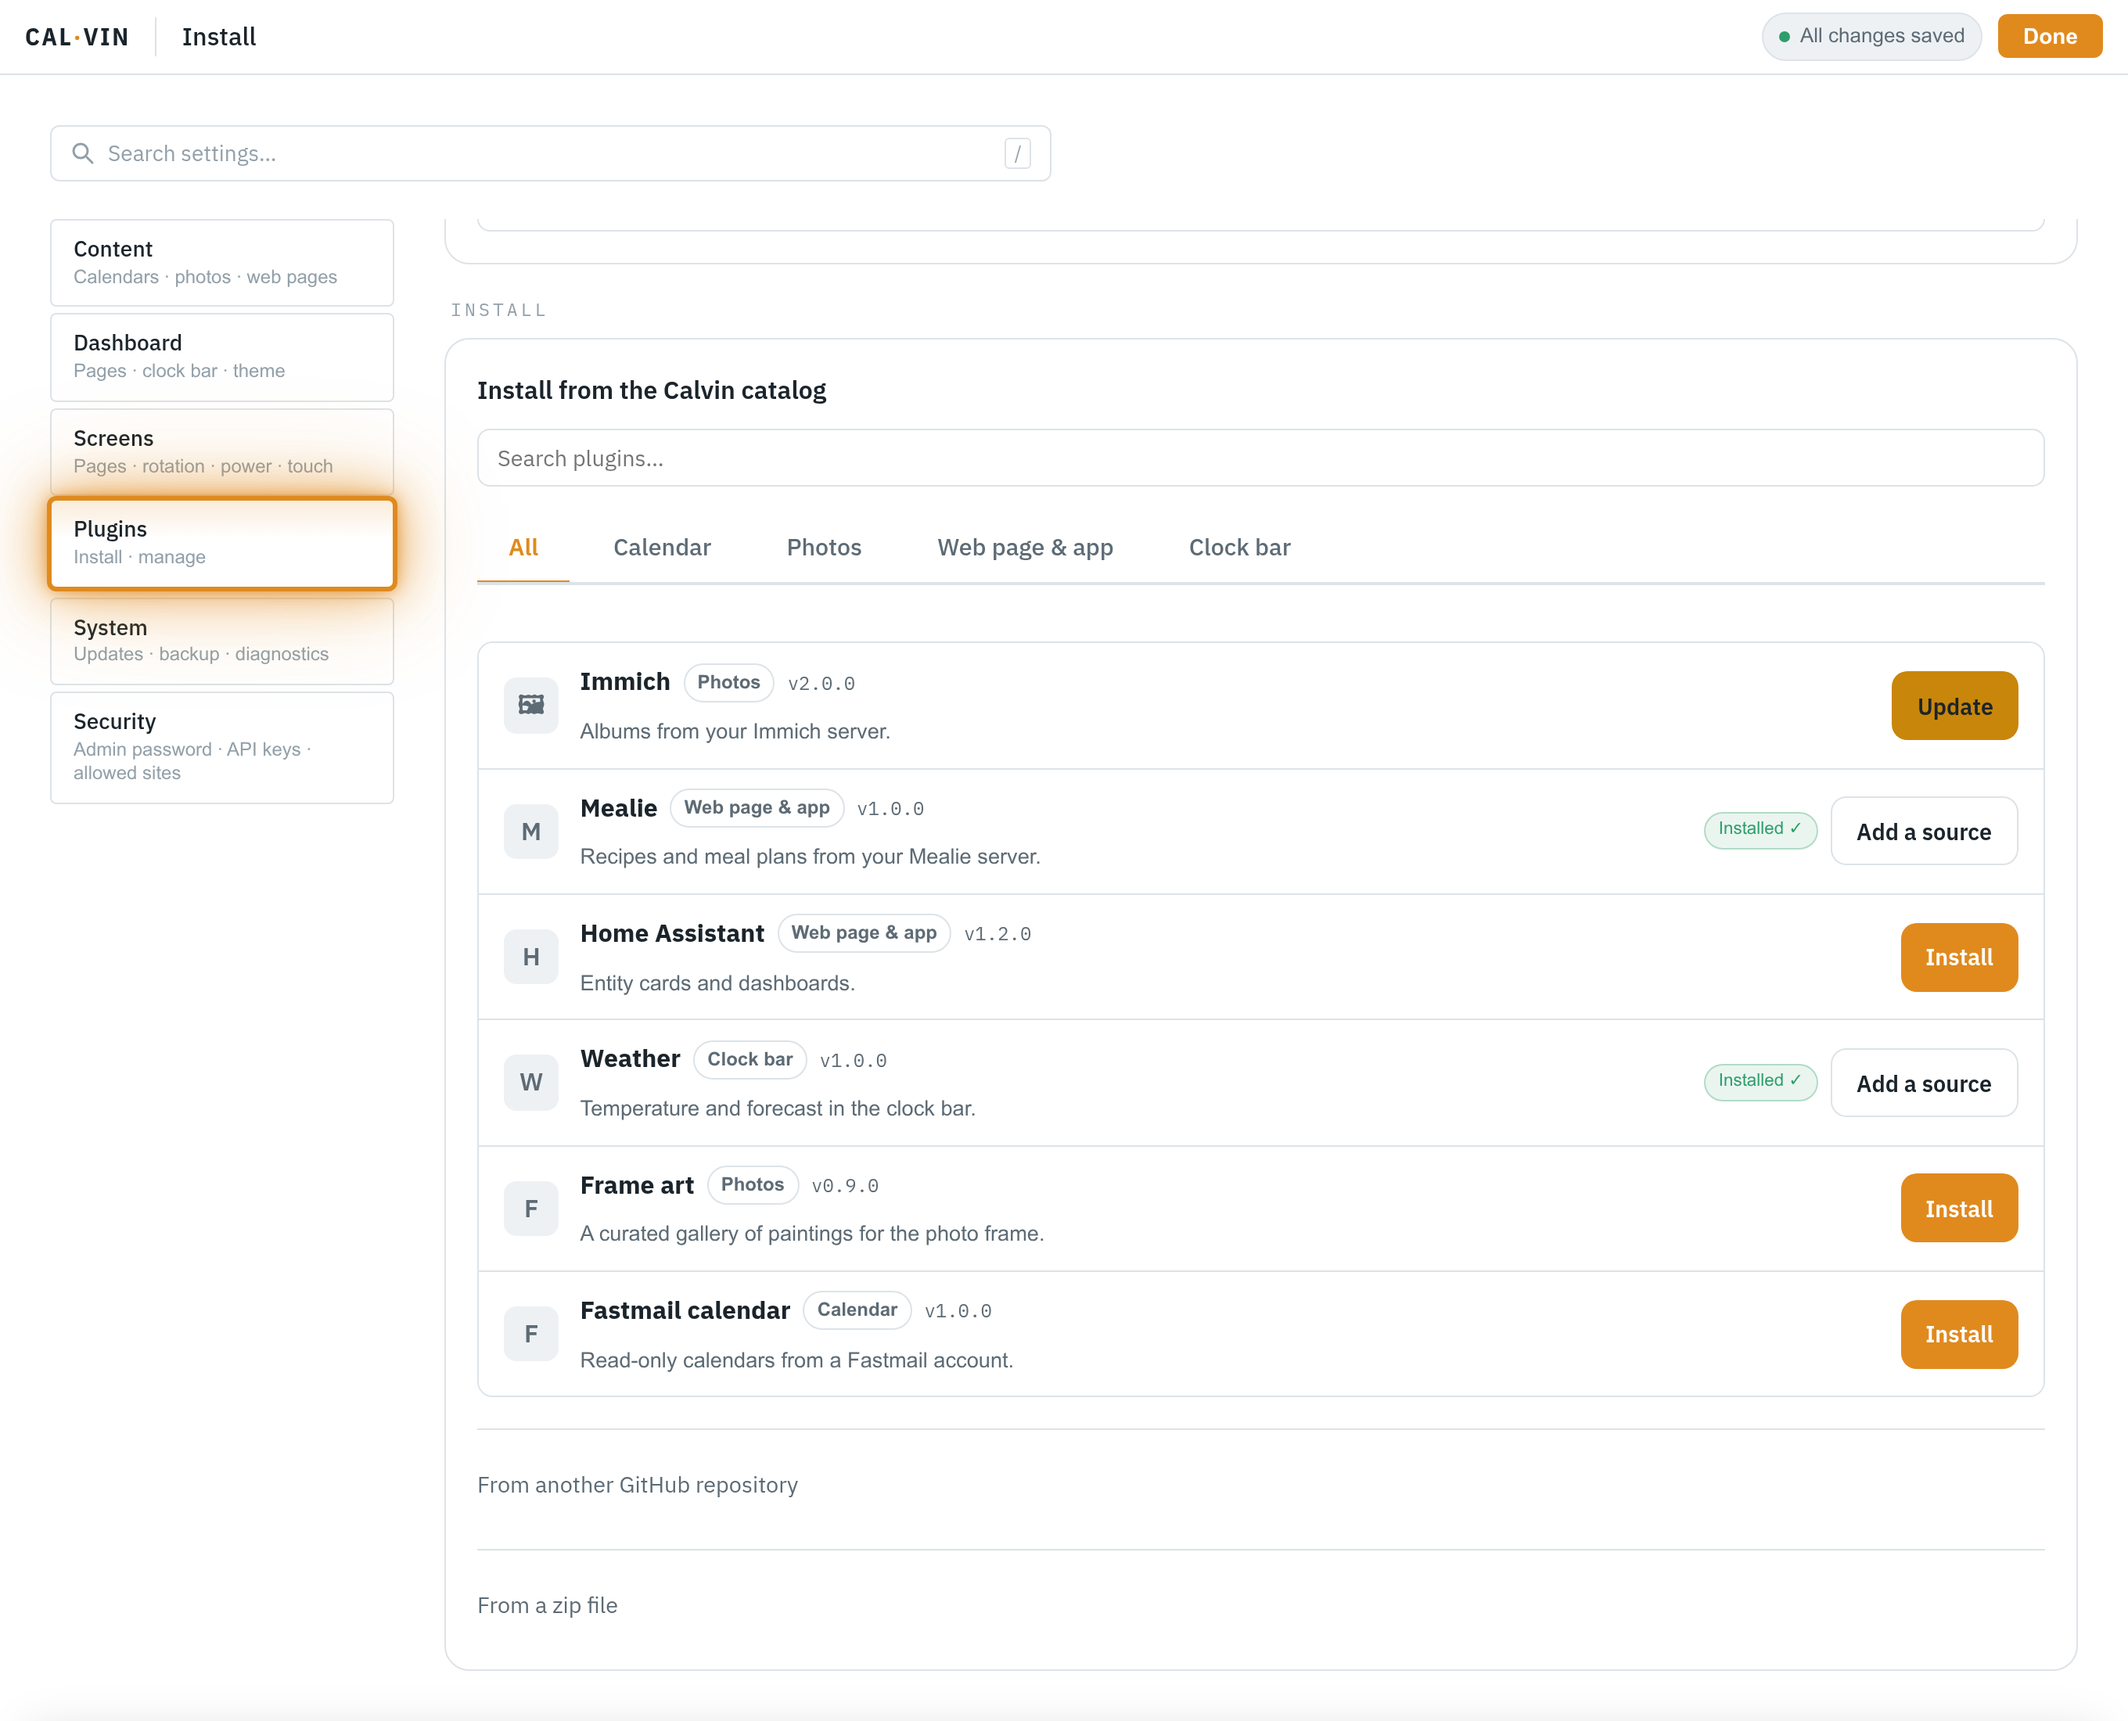
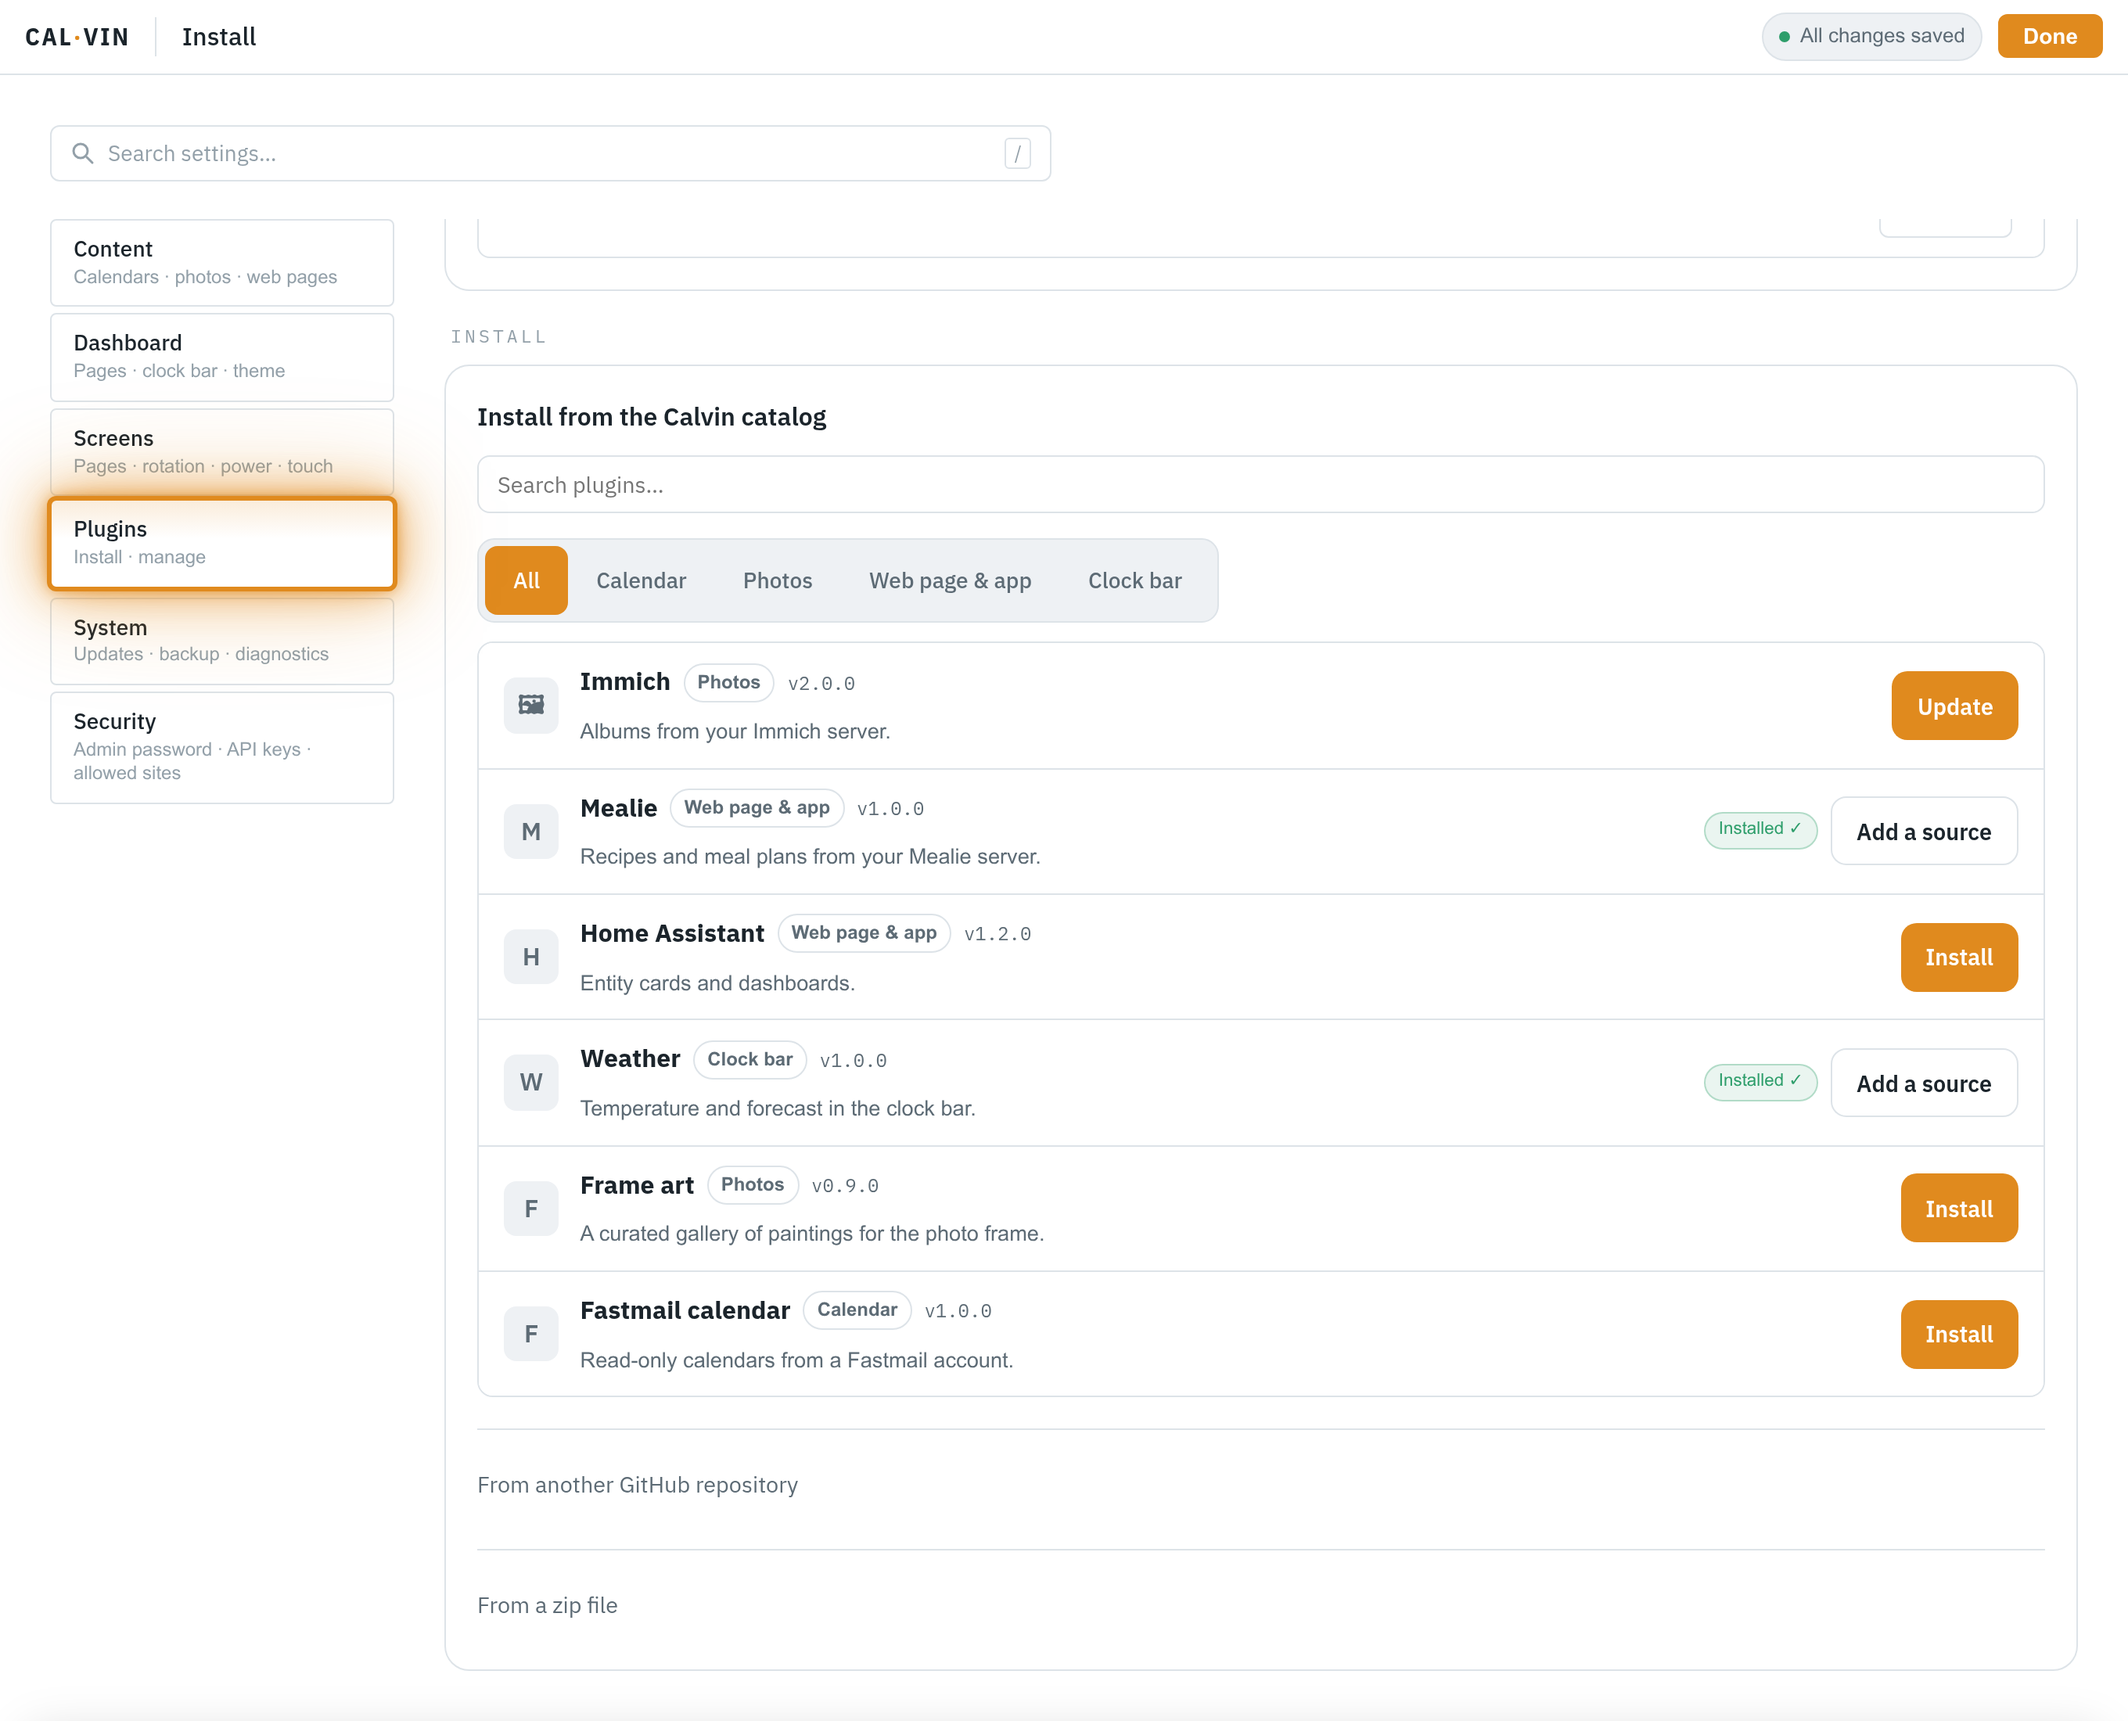
fix(frontend): one Update style, one kind filter, an upload glyph (CLV-45 review)
- Update is an install action everywhere: the Installed card button and the
  catalog row button use the same primary style as Install, with no amber
  fill or pale tint.
- The catalog's kind filter uses the same SegmentedControl as Installed
  instead of underline tabs.
- The picker's 'Upload from this device' tile shows an mdiUpload glyph
  instead of the letter fallback 'U' — it is not a plugin.
- Clock bar item rows hide the preview slot when a tile renders nothing, so
  no empty column is left on the left.
- Refreshes the CLV-45 screenshots for the review fixes.

Changed region(s): [[0.2188, 0.1855, 0.625, 0.3709], [0.875, 0.1236, 0.9375, 0.1545], [0.9062, 0.4018, 0.9375, 0.4327]]

diff --git a/frontend/src/components/settings/specialized/PluginInstaller.vue b/frontend/src/components/settings/specialized/PluginInstaller.vue
@@ -14,12 +14,14 @@
         />
       </div>
 
-      <TabNavigation
-        v-if="catalogTypeTabs.length > 1"
-        :tabs="catalogTypeTabs"
-        :active-tab="activeTypeTab"
-        @tab-change="activeTypeTab = $event"
-      />
+      <div v-if="catalogTypeOptions.length > 1" class="catalog-filters">
+        <SegmentedControl
+          :model-value="activeTypeTab"
+          :options="catalogTypeOptions"
+          aria-label="Plugin kind"
+          @update:model-value="activeTypeTab = $event"
+        />
+      </div>
 
       <p v-if="catalogEnumerating" class="catalog-status">Loading the catalog…</p>
       <p v-else-if="catalogError" class="catalog-status">{{ catalogError }}</p>
@@ -57,7 +59,7 @@
               <button
                 v-if="hasUpdate(plugin)"
                 type="button"
-                class="btn-install btn-update"
+                class="btn-install"
                 :disabled="installing"
                 @click="handleInstallFromCatalog(plugin.path)"
               >
@@ -193,7 +195,7 @@
               <button
                 v-if="hasUpdate(plugin)"
                 type="button"
-                class="btn-install btn-update"
+                class="btn-install"
                 :disabled="installing"
                 @click="handleInstall(plugin.path)"
               >
@@ -377,7 +379,7 @@
 
 <script setup>
 import { ref, computed, watch } from "vue";
-import TabNavigation from "../shared/TabNavigation.vue";
+import SegmentedControl from "@/components/ui/SegmentedControl.vue";
 import * as pluginsApi from "@/services/pluginsApi";
 import { pluginKindFilters, pluginKindKey, pluginKindLabel } from "@/utils/pluginKind";
 import { isNewerVersion } from "@/utils/pluginVersions";
@@ -525,8 +527,8 @@ const enrichedCatalog = computed(() => {
 const catalogList = computed(() => withoutTestFixtures(enrichedCatalog.value));
 
 const catalogFilters = computed(() => pluginKindFilters(catalogList.value));
-const catalogTypeTabs = computed(() =>
-  catalogFilters.value.map(option => ({ id: option.id, label: option.label }))
+const catalogTypeOptions = computed(() =>
+  catalogFilters.value.map(option => ({ value: option.id, label: option.label }))
 );
 
 const catalogRows = computed(() => {
@@ -776,6 +778,12 @@ watch(searchQuery, () => {
   color: var(--ink);
 }
 
+.catalog-filters {
+  display: flex;
+  max-width: 100%;
+  overflow-x: auto;
+}
+
 .catalog-status {
   margin: 0;
   padding: 0.5rem 0;
@@ -961,13 +969,8 @@ watch(searchQuery, () => {
   border-color: var(--focus);
 }
 
-.btn-update {
-  background: var(--warn);
-  color: var(--ink);
-}
-.btn-update:hover:not(:disabled) {
-  background: color-mix(in srgb, var(--warn), black 12%);
-}
+/* "Update" is an install action: it uses .btn-install's primary style, with no
+   separate amber fill. */
 
 /* Inputs */
 .github-input-compact,

diff --git a/frontend/tests/unit/components/settings/PluginInstaller.catalog.spec.js b/frontend/tests/unit/components/settings/PluginInstaller.catalog.spec.js
@@ -81,6 +81,18 @@ describe("PluginInstaller catalog (§3.3)", () => {
     expect(w.find('[data-catalog-plugin-id="mealie"]').text()).toContain("Web page & app");
   });
 
+  it("filters kinds with the same SegmentedControl the Installed list uses", () => {
+    const w = mountWith({ devMode: false });
+    const segmented = w.findComponent({ name: "SegmentedControl" });
+    expect(segmented.exists()).toBe(true);
+    expect(segmented.props("options").map(option => option.label)).toEqual([
+      "All",
+      "Photos",
+      "Web page & app",
+    ]);
+    expect(w.findComponent({ name: "TabNavigation" }).exists()).toBe(false);
+  });
+
   it("installs from the catalog repository, not the other-repository field", async () => {
     const w = mountWith({ devMode: false });
     await w.find('[data-catalog-plugin-id="mealie"] button.btn-install').trigger("click");
@@ -97,6 +109,11 @@ describe("PluginInstaller catalog (§3.3)", () => {
 
     const immich = w.find('[data-catalog-plugin-id="immich"]');
     expect(immich.text()).toContain("Update");
+    // Update is an install action: the same primary button as Install, not a
+    // separate amber look (CLV-45 review).
+    const updateButton = immich.find("button.btn-install");
+    expect(updateButton.exists()).toBe(true);
+    expect(updateButton.classes()).not.toContain("btn-update");
 
     // Same version: no Update, the row says Installed and links to Content.
     const weather = w.find('[data-catalog-plugin-id="weather"]');

diff --git a/frontend/tests/unit/components/settings/ProviderPicker.spec.js b/frontend/tests/unit/components/settings/ProviderPicker.spec.js
@@ -1,5 +1,6 @@
 import { describe, it, expect } from "vitest";
 import { mount } from "@vue/test-utils";
+import { mdiUpload } from "@mdi/js";
 import ProviderPicker from "@/components/settings/specialized/ProviderPicker.vue";
 
 const mountPicker = (props = {}) =>
@@ -23,6 +24,15 @@ describe("ProviderPicker tile icons (§6)", () => {
   it("renders an emoji icon as text", () => {
     const w = mountPicker({ providers: [{ id: "immich", name: "Immich", icon: "🖼" }] });
     expect(w.find(".pp-icon").text()).toBe("🖼");
+  });
+
+  it("renders an SVG glyph for a non-plugin choice (Upload), not a letter", () => {
+    const w = mountPicker({
+      providers: [{ id: "__upload", label: "Upload from this device", svg: mdiUpload }],
+    });
+    expect(w.find(".pp-icon svg").exists()).toBe(true);
+    expect(w.find(".pp-icon svg path").attributes("d")).toBe(mdiUpload);
+    expect(w.find(".pp-icon").text()).toBe("");
   });
 
   it("serves a file icon from the plugin's static route", () => {

diff --git a/frontend/src/components/settings/specialized/AddSourceButton.vue b/frontend/src/components/settings/specialized/AddSourceButton.vue
@@ -35,6 +35,7 @@ import { computed, onMounted, ref } from "vue";
 import { useRouter } from "vue-router";
 import { usePlugins } from "@/composables";
 import { useConfigStore } from "@/stores/config";
+import { mdiUpload } from "@mdi/js";
 import InstanceModal from "./InstanceModal.vue";
 import ProviderPicker from "./ProviderPicker.vue";
 import ConfirmModal from "../shared/ConfirmModal.vue";
@@ -125,6 +126,8 @@ const providers = computed(() => {
       action: "upload",
       label: "Upload from this device",
       description: "JPG, PNG, WebP or GIF into Local photos",
+      // Not a plugin: a real upload glyph beats the "U" letter fallback.
+      svg: mdiUpload,
     });
   }
   return [...list, ...pluginProviders.value];

diff --git a/frontend/src/components/settings/specialized/ProviderPicker.vue b/frontend/src/components/settings/specialized/ProviderPicker.vue
@@ -15,8 +15,11 @@
             @click="choose(provider)"
           >
             <span class="pp-icon" aria-hidden="true">
+              <svg v-if="provider.svg" class="pp-icon-svg" viewBox="0 0 24 24">
+                <path :d="provider.svg" fill="currentColor" />
+              </svg>
               <img
-                v-if="isIconFile(provider.icon)"
+                v-else-if="isIconFile(provider.icon)"
                 class="pp-icon-img"
                 :src="iconUrl(provider)"
                 alt=""
@@ -244,6 +247,11 @@ const choose = provider => {
   width: 100%;
   height: 100%;
   object-fit: contain;
+}
+
+.pp-icon-svg {
+  width: 60%;
+  height: 60%;
 }
 
 .pp-text {

diff --git a/frontend/src/components/settings/specialized/PluginCard.vue b/frontend/src/components/settings/specialized/PluginCard.vue
@@ -396,11 +396,14 @@ const handleCustomAction = action => emit("custom-action", props.plugin.id, acti
   background: color-mix(in srgb, var(--err) 10%, transparent);
 }
 .pc-btn--update {
-  border-color: color-mix(in srgb, var(--warn) 55%, var(--line));
-  background: color-mix(in srgb, var(--warn) 14%, var(--bg-1));
+  background: var(--focus);
+  color: var(--focus-ink);
+  border-color: var(--focus);
+  font-weight: 600;
 }
 .pc-btn--update:hover {
-  border-color: var(--warn);
+  background: color-mix(in srgb, var(--focus), black 12%);
+  border-color: var(--focus);
 }
 .pc-btn--update:disabled {
   opacity: 0.6;

diff --git a/frontend/src/components/settings/tabs/clock-bar/ClockBarItemsTab.vue b/frontend/src/components/settings/tabs/clock-bar/ClockBarItemsTab.vue
@@ -190,8 +190,7 @@ onMounted(async () => {
 }
 
 .item-row {
-  display: grid;
-  grid-template-columns: minmax(80px, auto) 1fr auto;
+  display: flex;
   gap: 1rem;
   align-items: center;
   padding: 0.75rem 1rem;
@@ -204,7 +203,18 @@ onMounted(async () => {
 .preview {
   display: flex;
   align-items: center;
+  min-width: 80px;
   min-height: 32px;
+}
+
+/* A tile with no live preview yet leaves no empty slot (CLV-45 review). */
+.preview:empty {
+  display: none;
+}
+
+.meta {
+  flex: 1;
+  min-width: 0;
 }
 
 .meta .title {

diff --git a/frontend/tests/unit/components/settings/AddSourceButton.spec.js b/frontend/tests/unit/components/settings/AddSourceButton.spec.js
@@ -137,6 +137,8 @@ describe("AddSourceButton provider picker", () => {
 
     const providers = w.findComponent({ name: "ProviderPicker" }).props("providers");
     expect(providers[0]).toMatchObject({ id: "__upload", action: "upload" });
+    // Not a plugin: an upload glyph, not the letter fallback "U".
+    expect(providers[0].svg).toBeTruthy();
 
     w.findComponent({ name: "ProviderPicker" }).vm.$emit("select", providers[0]);
     await flushPromises();
